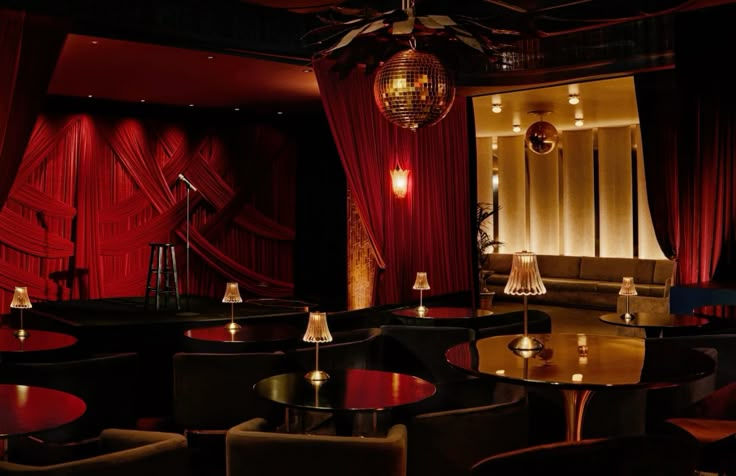
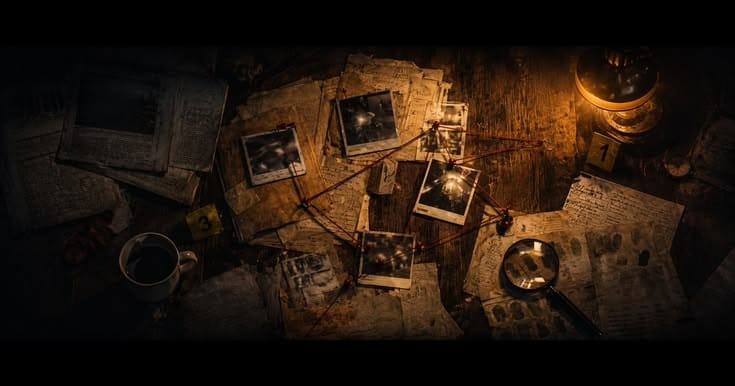
Redefine investigation dashboard and update Blue Velvet background

diff --git a/app/cases/001/page.tsx b/app/cases/001/page.tsx
@@ -194,9 +194,13 @@ export default function CasePage() {
         className="group relative overflow-hidden cursor-pointer p-6 bg-[var(--color-paper)] border border-[var(--color-gold-dim)] hover:shadow-[0_10px_30px_rgba(0,0,0,0.6)] hover:-translate-y-1 transition transform h-full flex flex-col"
         style={{ borderColor: "rgba(184,146,58,0.18)" }}
       >
-        <h3 className="font-serif text-xl italic text-[var(--color-cream)] mb-2">SUSPECTS</h3>
-        <p className="font-mono text-[0.85rem] text-[var(--color-parchment)] mb-4">Interrogate the individuals connected to Samuel Alexander.</p>
-        <div className="mt-auto font-mono text-[0.9rem] text-[var(--color-gold)]">4 persons</div>
+        <h3 className="font-serif text-xl italic text-[var(--color-cream)] mb-2 transition-colors duration-300 group-hover:text-[var(--color-gold)]">SUSPECTS</h3>
+        <p className="font-mono text-[0.85rem] text-[var(--color-parchment)] mb-4">Question those connected to the victim.</p>
+        <p className="font-mono text-[0.85rem] text-[var(--color-parchment)] mb-4">Their statements contain inconsistencies. Click to review.</p>
+        <div className="mt-auto">
+          <div className="font-mono text-[0.9rem] text-[var(--color-gold)]">4 persons</div>
+          <div className="mt-4 text-[0.8rem] text-[var(--color-gold)] opacity-0 transition-opacity duration-300 group-hover:opacity-100">Click to review →</div>
+        </div>
       </button>
     );
   }
@@ -209,9 +213,11 @@ export default function CasePage() {
         className="group relative overflow-hidden cursor-pointer p-6 bg-[var(--color-paper)] border border-[var(--color-gold-dim)] hover:shadow-[0_10px_30px_rgba(0,0,0,0.6)] hover:-translate-y-1 transition transform h-full flex flex-col"
         style={{ borderColor: "rgba(184,146,58,0.18)" }}
       >
-        <h3 className="font-serif text-xl italic text-[var(--color-cream)] mb-2">EVIDENCE</h3>
+        <h3 className="font-serif text-xl italic text-[var(--color-cream)] mb-2 transition-colors duration-300 group-hover:text-[var(--color-gold)]">EVIDENCE</h3>
         <p className="font-mono text-[0.85rem] text-[var(--color-parchment)] mb-4">Review recovered evidence and investigative materials.</p>
+        <p className="font-mono text-[0.85rem] text-[var(--color-parchment)] mb-4">Click to inspect several items recovered from Ethan Graves files.</p>
         <div className="mt-auto font-mono text-[0.9rem] text-[var(--color-gold)]">{reviewedEvidenceIds.length} / {evidenceItems.length} reviewed</div>
+        <div className="mt-4 text-[0.8rem] text-[var(--color-gold)] opacity-0 transition-opacity duration-300 group-hover:opacity-100">Click to inspect →</div>
       </button>
     );
   }
@@ -225,9 +231,11 @@ export default function CasePage() {
         className="group relative overflow-hidden cursor-pointer p-6 bg-[var(--color-paper)] border border-[var(--color-gold-dim)] hover:shadow-[0_10px_30px_rgba(0,0,0,0.6)] hover:-translate-y-1 transition transform h-full flex flex-col"
         style={{ borderColor: "rgba(184,146,58,0.18)" }}
       >
-        <h3 className="font-serif text-xl italic text-[var(--color-cream)] mb-2">TIMELINE</h3>
+        <h3 className="font-serif text-xl italic text-[var(--color-cream)] mb-2 transition-colors duration-300 group-hover:text-[var(--color-gold)]">TIMELINE</h3>
         <p className="font-mono text-[0.85rem] text-[var(--color-parchment)] mb-4">Reconstruct the events of September 14, 1989.</p>
+        <p className="font-mono text-[0.85rem] text-[var(--color-parchment)] mb-4">Piece together what happened on the night Samuel King died.</p>
         <div className="mt-auto font-mono text-[0.9rem] text-[var(--color-gold)]">{reviewedTimelineIds.length} / {timelineEvents.length} events reviewed</div>
+        <div className="mt-4 text-[0.8rem] text-[var(--color-gold)] opacity-0 transition-opacity duration-300 group-hover:opacity-100">Click to reconstruct →</div>
       </button>
     );
   }
@@ -247,12 +255,15 @@ export default function CasePage() {
         className={"group relative overflow-hidden cursor-pointer p-6 bg-[var(--color-paper)] border border-[var(--color-gold-dim)] transition transform h-full flex flex-col"}
         style={{ borderColor: "rgba(184,146,58,0.18)" }}
       >
-        <h3 className="font-serif text-xl italic text-[var(--color-cream)] mb-2">MAKE ACCUSATION</h3>
+        <h3 className="font-serif text-xl italic text-[var(--color-cream)] mb-2 transition-colors duration-300 group-hover:text-[var(--color-gold)]">MAKE ACCUSATION</h3>
         <p className="font-mono text-[0.85rem] text-[var(--color-parchment)] mb-4">Finalize your suspicion and press to accuse.</p>
+        <p className="font-mono text-[0.85rem] text-[var(--color-parchment)] mb-4">The truth remains hidden. Review the evidence, examine the suspects, and determine who is responsible.</p>
         <div className={"mt-auto font-mono text-[0.9rem] " + (accusationReady ? "text-[var(--color-gold)]" : "text-[var(--color-parchment)]")}>
           {accusationReady ? "Ready" : "Locked"}
         </div>
+        <div className="mt-4 text-[0.8rem] text-[var(--color-gold)] opacity-0 transition-opacity duration-300 group-hover:opacity-100">{accusationReady ? "Click to accuse →" : "Investigation incomplete"}</div>
       </button>
+
     );
   }
   return (